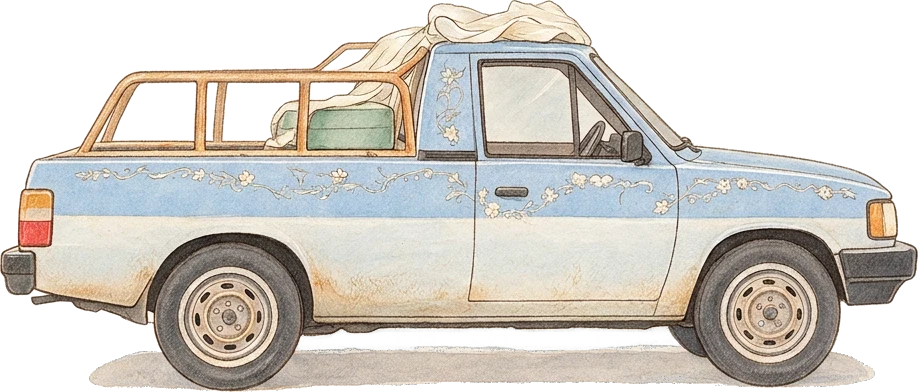
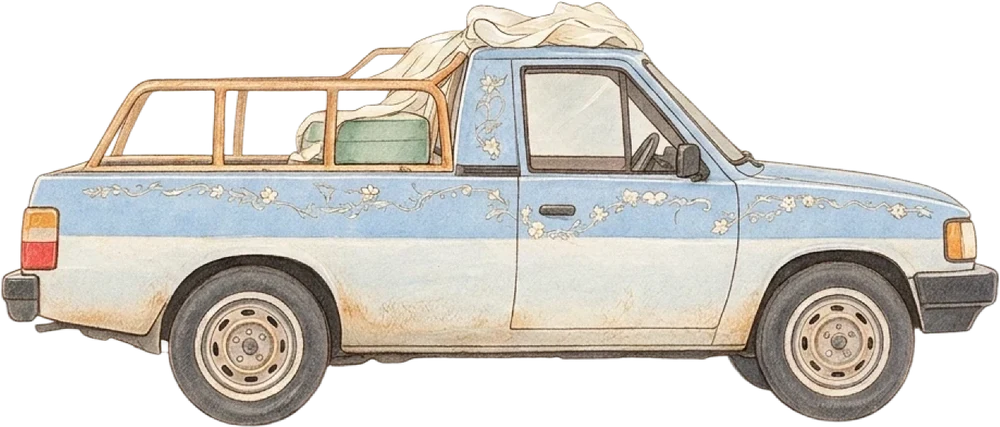
자동차 이미지 교체

diff --git a/index.html b/index.html
@@ -126,7 +126,7 @@ place(ART.yellowTree(), 1900, -4300, 460, 550);
 [[-1100, -8200, '#eef4f4'], [-1700, -9000, '#d9ecf0'], [1300, -8600, '#f3f0ea'], [2000, -9400, '#e2eef0'], [-700, -9700, '#f0ece2'], [900, -9900, '#dcecef']].forEach(([x, z, c]) => place(ART.tent(c), x, z, 420, 230));
 place(ART.teepee(), 1500, -7600, 260, 350);
 place(ART.teepee(), -2400, -10400, 240, 325);
-place('<img src="img/truck.webp" alt="">', -900, -7000, 500, 213);
+place('<img src="img/truck.webp" alt="">', -900, -7000, 500, 214);
 place('<img src="img/stage.webp" alt="">', 0, -10600, 960, 971);
 
 // ===== 카메라 계산 (바닥 캔버스와 물건이 같은 식을 씀) =====
